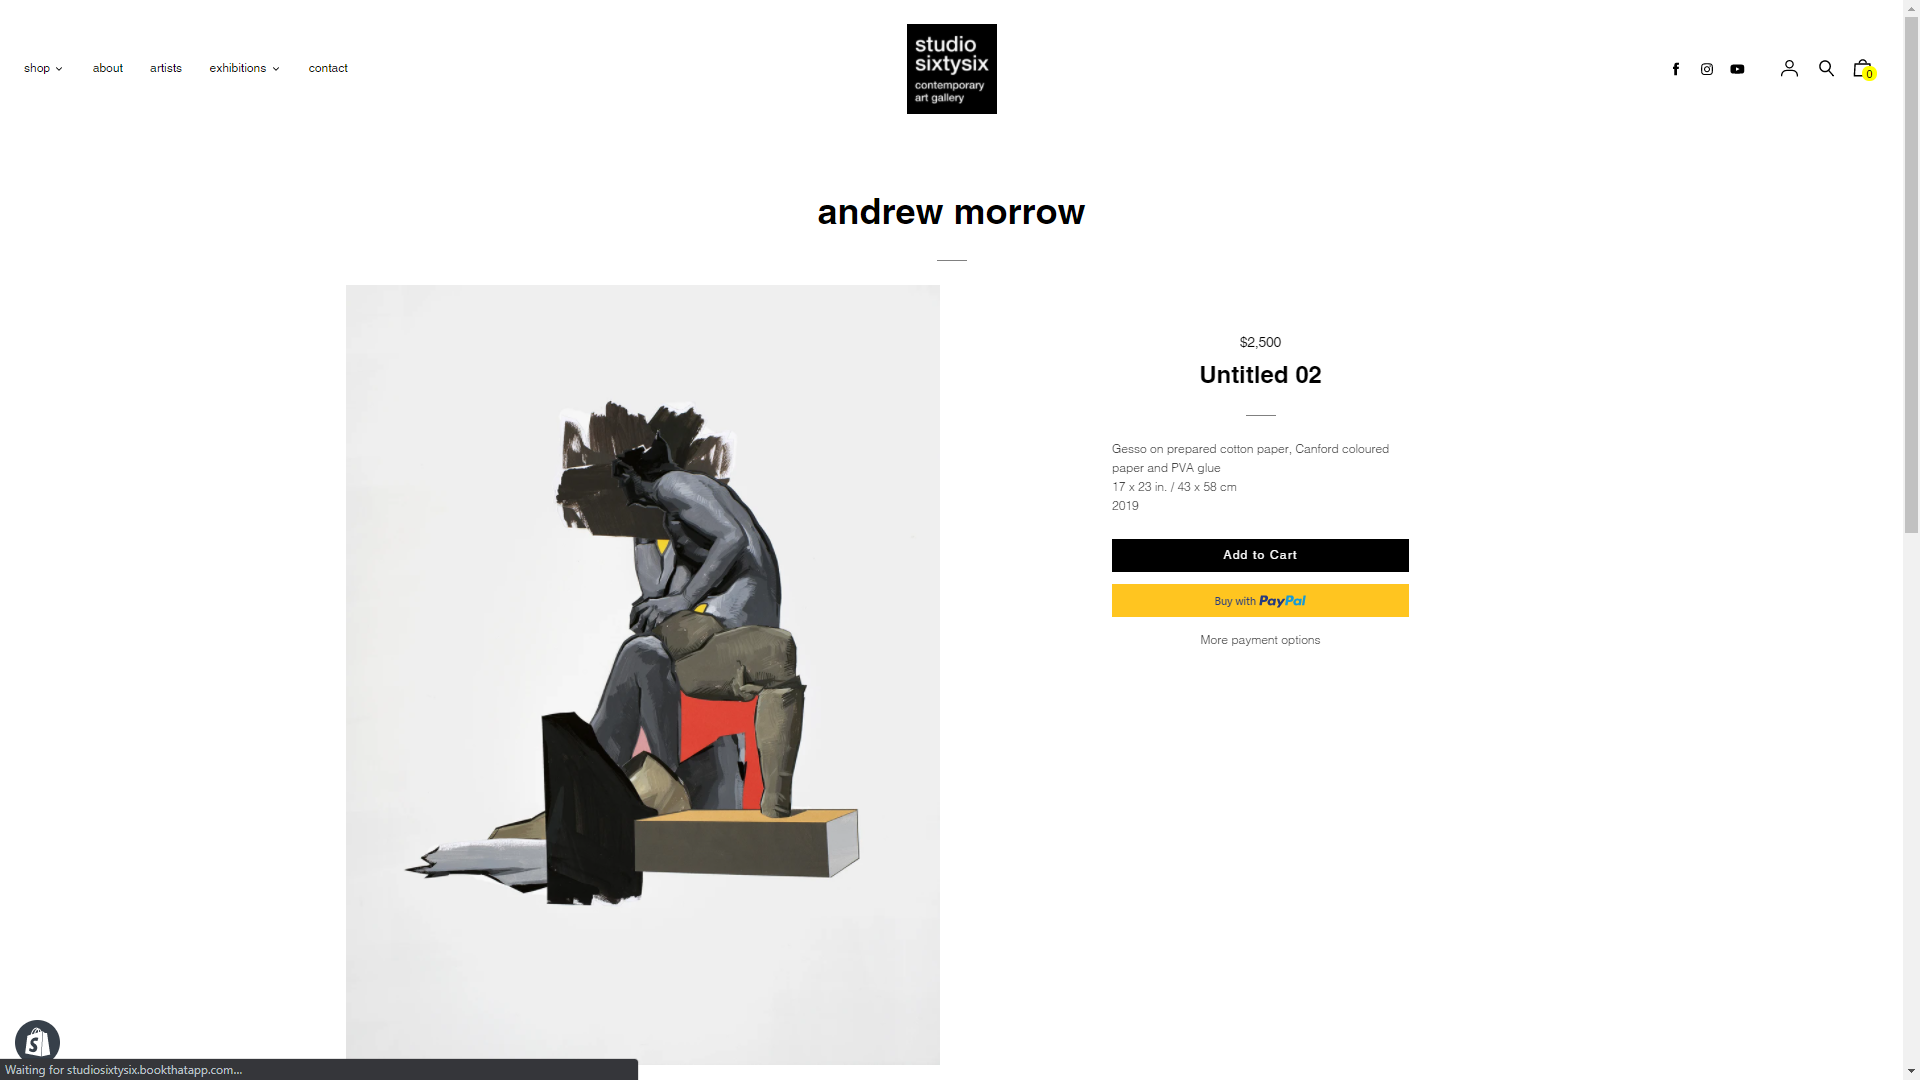
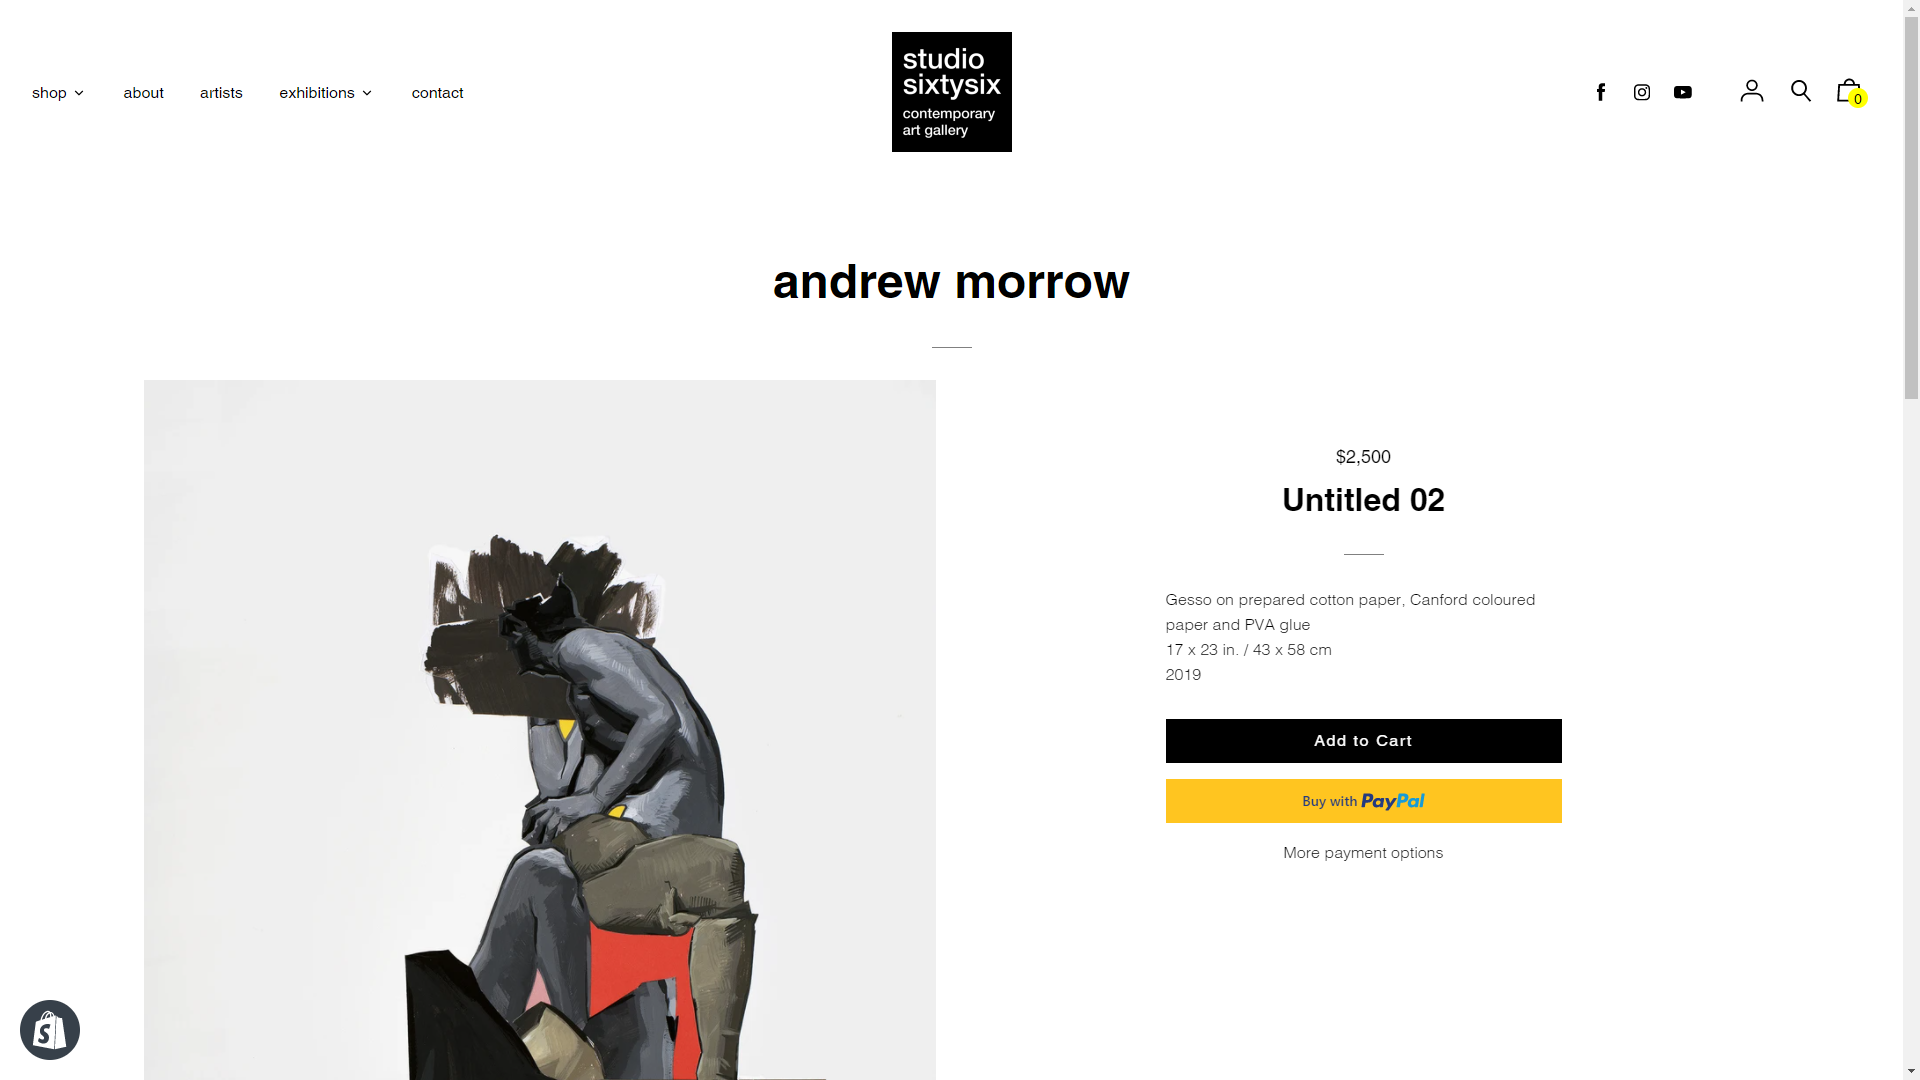
content added to the studio66 section

diff --git a/src/components/Portfolio/StudioSixtySix.js b/src/components/Portfolio/StudioSixtySix.js
@@ -1,0 +1,70 @@
+import React, { useEffect } from 'react'
+import logo from '../../portfolio-images/Studio Sixty Six/logo-1.webp'
+import banner from '../../portfolio-images/Studio Sixty Six/logo.PNG'
+import artists from '../../portfolio-images/Studio Sixty Six/artists.png'
+import artist_page from '../../portfolio-images/Studio Sixty Six/artist-page.png'
+import product_page from '../../portfolio-images/Studio Sixty Six/product-page.png'
+
+export default function StudioSixtySix() {
+
+    useEffect(() => {
+        document.title = "Studio Sixty Six"
+    }, []);
+
+    return (
+        <section id="studio-sixty-six">
+            <div className="portfolio-logo">
+                <img src={logo} alt="" />
+            </div>
+
+            <div className="portfolio-banner">
+                <img className="portfolio-banner" src={banner} alt="" />
+            </div>
+
+            <div className="portfolio-content">
+                <div className="description">
+                    <h2>Studio Sixty</h2>
+                    <p>Studio Sixty is an art gallery based in Ottawa. They collaborate with artists from all over Canada to support their career and also sell their artwork as well.</p>
+                </div>
+
+                <div className="description">
+                    <h2>My duties</h2>
+                    <p>During their transition to a new Shopify theme, I wrote custom HTML and CSS for various pages and adjusted the look of already existing pages within the
+                     new Shopify theme to their needs. I also fixed some bugs that were present in the theme during the transition.</p>
+                </div>
+
+                <div className="description-image">
+                    <img src={artists} alt="" />
+                </div>
+
+                <div className="description">
+                    <h2>Artists</h2>
+                    <p>This is one of the pages I worked on. I was tasked with retrieving the artists from the database and display them in a grid-like format. Each artists appearing to
+                    be in the form of a portrait and each row containing four artists. On smaller screens, each row would contain two artists. I was able to achieve this type of layout using
+                    CSS grid layout.</p>
+                </div>
+
+                <div className="description-image">
+                    <img src={artist_page} alt="" />
+                </div>
+
+                <div className="description">
+                    <h2>Artist Page</h2>
+                    <p>Upon clicking on each artist, you are lead to the artist page with this layout. Initially all the content was displayed in a single column, with the blurb appearing
+                    underneath the image. I was asked by the client to revamp the look. They wanted the blurb to appear next to the artist image instead. Again, with CSS Grid coming to the rescue,
+                    I was able to easily achieve this with a 2 column layout and tweaking the gap between the columns to the specification of the client.</p>
+                </div>
+
+                <div className="description-image">
+                    <img src={product_page} alt="" />
+                </div>
+
+                <div className="description">
+                    <h2>Product Page</h2>
+                    <p>Each artists have their art on display in the featured section on the artist page. Clicking any of the art will lead you to the product page. Which currently has this layout.
+                    Similar to the artist page, I was asked to make the container detailing the price to appear next to the product image with the gap set to what was specified.</p>
+                </div>
+            </div>
+        </section>
+    )
+}

diff --git a/src/components/Portfolio.js b/src/components/Portfolio.js
@@ -1,5 +1,6 @@
 import React from 'react'
 import { Link } from 'react-router-dom'
+
 import sixty_six from '../portfolio-images/Studio Sixty Six/logo-1.webp'
 import mjlonir from '../portfolio-images/Mjlonir/Logo.png'
 import soundboard from '../portfolio-images/Soundboard/logo.png'
@@ -13,7 +14,7 @@ const Portfolio = () => {
 
             <div className="portfolio-container">
                 <div className="thumbnail">
-                    <Link className="portfolio-link">
+                    <Link to="/StudioSixtySix" className="portfolio-link">
                         <img src={sixty_six} alt="" />
                     </Link>
                 </div>
@@ -23,7 +24,7 @@ const Portfolio = () => {
                     </Link>
                 </div>
                 <div className="thumbnail">
-                    <Link className="portfolio-link">
+                    <Link to="/Soundboard" className="portfolio-link">
                         <img src={soundboard} alt="" />
                     </Link>
                 </div>

diff --git a/src/App.js b/src/App.js
@@ -1,6 +1,8 @@
 import Navbar from './components/Navbar'
 import Home from './components/Home'
 import Mjlonir from './components/Portfolio/Mjlonir'
+import StudioSixtySix from './components/Portfolio/StudioSixtySix'
+import Soundboard from './components/Portfolio/Soundboard'
 
 import { BrowserRouter as Router, Route, Switch } from "react-router-dom";
 
@@ -13,6 +15,8 @@ function App() {
           <Navbar />
           <Route path="/" exact component={Home} />
           <Route path="/Mjlonir" component={Mjlonir} />
+          <Route path="/StudioSixtySix" component={StudioSixtySix} />
+          <Route path="/Soundboard" component={Soundboard} />
         </div>
       </Switch>
     </Router>

diff --git a/src/index.css b/src/index.css
@@ -589,3 +589,48 @@ footer{
   width: inherit;
   height: inherit;
 }
+
+.portfolio-logo{
+  height: 100px;
+  width: 100%;
+  margin: 150px 0px 50px 0px;
+  position: relative;
+}
+
+.portfolio-logo img{
+  height: 100%;
+  width: 100px;
+  position: absolute;
+  left: 50%;
+  transform: translateX(-50%);
+}
+
+.portfolio-banner{
+  width: 100%;
+  text-align: center;
+  margin-bottom: 20px;
+}
+
+.portfolio-banner img{
+  width: 50%;
+  object-fit: cover;
+}
+
+ .portfolio-content{
+  width: 50%;
+  margin-right: auto;
+  margin-left: auto;
+}
+
+.description{
+  margin-bottom: 25px;
+}
+
+.description-image{
+ width: 100%;
+ margin-bottom: 25px;
+}
+
+.description-image img{
+  width: 100%;
+}

diff --git a/src/components/Home.js b/src/components/Home.js
@@ -1,10 +1,13 @@
-import React, { Fragment } from 'react'
+import React, { Fragment, useEffect } from 'react'
 import Services from './Services'
 import Portfolio from './Portfolio'
 import About from './About'
 import Contact from './Contact'
 
 export default function Home() {
+    useEffect(() => {
+        document.title = "Home | Abayomi"
+    }, []);
     return (
         <Fragment>
             <section id="home">

diff --git a/src/components/Portfolio/Mjlonir.js b/src/components/Portfolio/Mjlonir.js
@@ -3,7 +3,7 @@ import React from 'react'
 export default function Mjlonir() {
     return (
         <div>
-            <p>Mjlonir contenet here!</p>
+            <p>Mjlonir content here!</p>
         </div>
     )
 }

diff --git a/src/components/Portfolio/Soundboard.js b/src/components/Portfolio/Soundboard.js
@@ -1,0 +1,9 @@
+import React from 'react'
+
+export default function Soundboard() {
+    return (
+        <div>
+            <p>Beep</p>
+        </div>
+    )
+}
